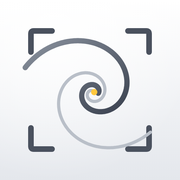
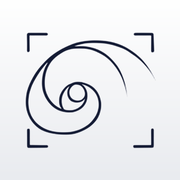
구도 카메라: 캔바 황금나선 아이콘 원본으로 교체
Claude-Session: https://claude.ai/code/session_01PpW8uX5Qg6KwMRVALpVico

Changed region(s): [[0.1111, 0.1389, 0.8611, 0.8611], [0.6944, 0.1389, 0.8611, 0.3056], [0.8333, 0.3889, 0.8611, 0.4444]]

diff --git a/photo/index.html b/photo/index.html
@@ -6,8 +6,8 @@
 <meta name="theme-color" content="#EEF0F3">
 <meta name="apple-mobile-web-app-capable" content="yes">
 <meta name="apple-mobile-web-app-title" content="구도카메라">
-<link rel="apple-touch-icon" href="icon-180.png?v=2">
-<link rel="icon" type="image/png" href="icon-192.png?v=2">
+<link rel="apple-touch-icon" href="icon-180.png?v=3">
+<link rel="icon" type="image/png" href="icon-192.png?v=3">
 <link rel="manifest" href="manifest.webmanifest">
 <link rel="stylesheet" href="https://cdn.jsdelivr.net/gh/orioncactus/pretendard@v1.3.9/dist/web/variable/pretendardvariable-dynamic-subset.min.css">
 <link rel="stylesheet" href="app.css">
